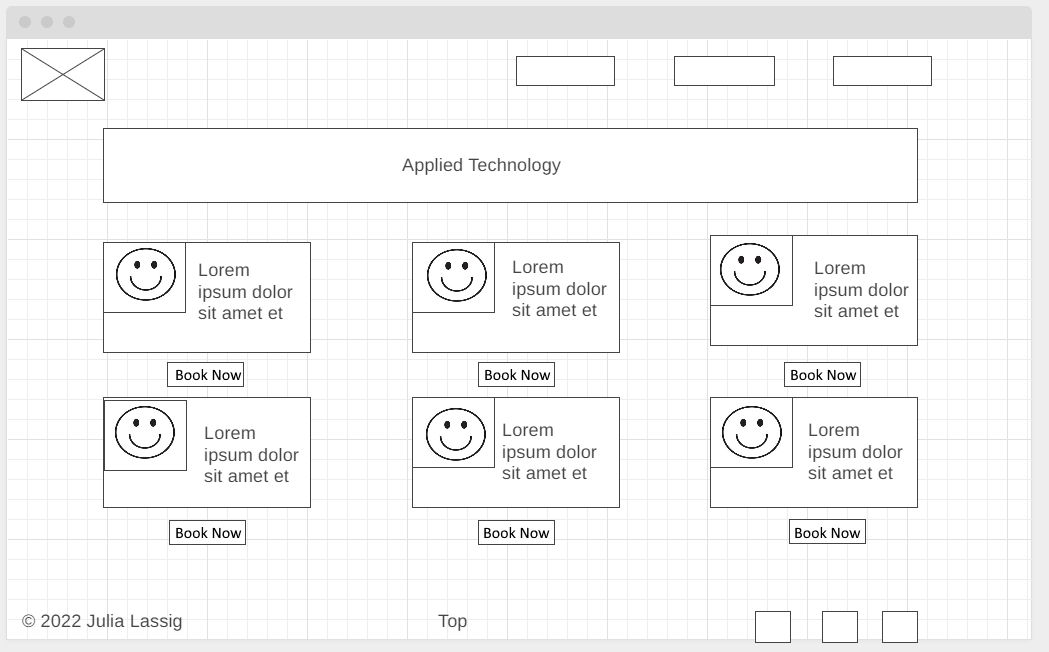
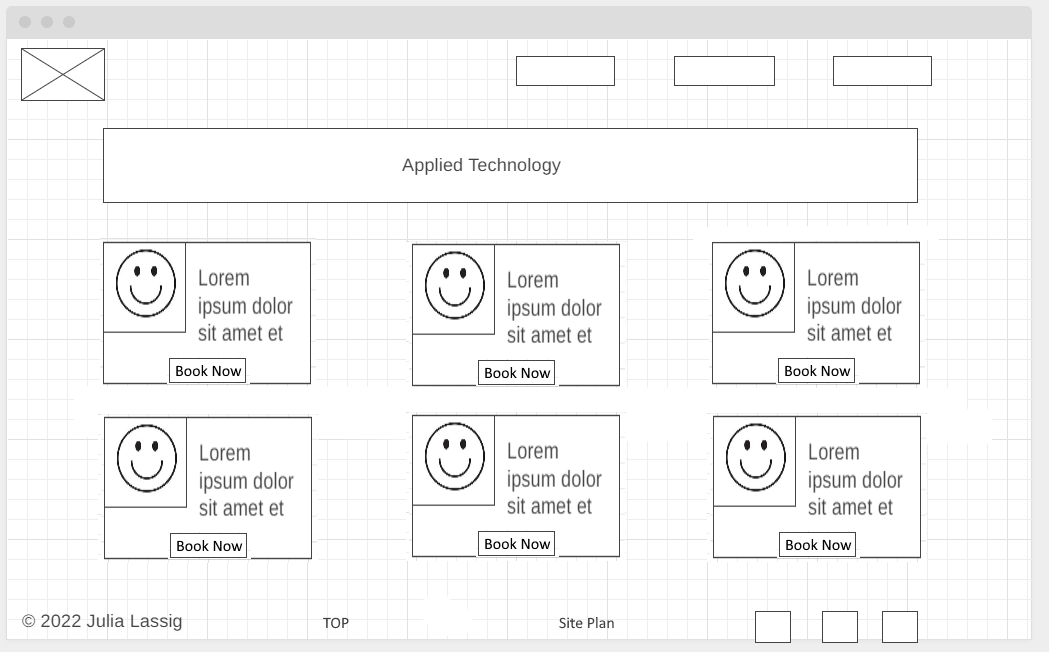
1st child page and fixed site-plan

diff --git a/uni_advisors/appliedtech.html b/uni_advisors/appliedtech.html
@@ -16,7 +16,7 @@
   <!--Nav Bar -->
   <nav>
    <a href="index.html">Home</a>
-   <a href="appliedtech.html">Applied Tech</a>
+   <a href="appliedtech.html">Applied Technology</a>
    <a href="booknow.html">Book Now</a>
    <a href="contactus.html">Contact Us</a>
   </nav>
@@ -26,83 +26,95 @@
    <h5>Technology is everywhere. We want to help you get that degree so you can get a job anywhere!</h5>
   </div>
   
-  <main>
-   <div class="applied-tech-instructions">Click "Book Now" below the advisor of your choice: </div>
+  <main class="appliedtech-grid">
+   <div class="applied-tech-instructions">Here are our advisors that specialize in Applied Technology. Click on the "Book Now" button below the advisor of your choice to book an appointment with them.  </div>
 <!--AND NOW THE ADVISORS FOR APPLIED TECH: -->
-   <div class="advisor tyler_jenson">
-    <img src="images/pexels-tony-schnagl-5588224.jpg" alt="Tyler Jensen">Photo by <a
-     href="https://www.pexels.com/photo/man-in-brown-coat-and-black-cap-5588224/">Tony Schnagl</a>
-    <p>
-     Name: Tyler Jensen
-     Specializing in: Applied Technology
-     Bio: I've worked in Quality Assurance for 15 years for Facebook.
-     Languages I speak: English, Spanish, German
-     Availability: Monday, Wednesday, Friday, 9 am - 4 pm MST
-    </p>
-    <button class="button tj_button"><a href="booknow.html">BOOK NOW</a></button>
+   <div class="advisor tyler_jensen">
+      <div class="advisor-img"><img src="images/pexels-tony-schnagl-5588224.jpg" alt="Tyler Jensen"><p class="pic-src">Photo by <a href="https://www.pexels.com/photo/man-in-brown-coat-and-black-cap-5588224/" target="blank"> Tony Schnagl</a></p></div>
+      <ul class="advisor-info">
+         <li><span class=li-span>Name:</span> Tyler Jensen</li>
+         <li><span class=li-span>Specializing in:</span> Applied Technology</li>
+         <li><span class=li-span>Bio:</span> I've worked in Quality Assurance for 15 years for Facebook.</li>
+         <li><span class=li-span>Languages I speak:</span> English, Spanish, German</li>
+         <li><span class=li-span>Availability:</span> Monday, Wednesday, Friday, 9 am - 4 pm MST</li>
+      </ul>
+      
+         <div class="booknow-button"><a href="booknow.html">BOOK NOW</a></div>
    </div>
 
    <div class="advisor susan_smith">
-    <img src="images/pexels-andrea-piacquadio-762020.jpg" alt="Susan Smith">Photo by<a href="https://www.pexels.com/photo/woman-wearing-coat-762020/">Andrea Piacquadio</a>
-    <p>
-     Name: Susan Smith
-     Specializing in: Applied Technology
-     Bio: I've been a software developer in 4 of the FAANG companies for the last 25 years and now I want to help students
-     to be able to get the tools they need to be able to work there.
-     Languages I speak: English, French, Italian
-     Availability: Tuesday-Thursday, 9am - 5pm MST
-    </p> 
-    <button class="button ss_button">BOOK NOW</button>
-    </div>
+    <div class="advisor-img"><img src="images/pexels-andrea-piacquadio-762020.jpg" alt="Susan Smith">
+    <p class="pic-src">Photo by<a href="https://www.pexels.com/photo/woman-wearing-coat-762020/" target="blank"> Andrea Piacquadio</a></p></div>
+    <ul class="advisor-info">
+      <li><span class=li-span>Name:</span> Susan Smith</li>
+      <li><span class=li-span>Specializing in:</span> Applied Technology</li>
+      <li><span class=li-span>Bio:</span> I've been a software developer in 4 of the FAANG companies for the last 25 years and now I want to help students
+      to be able to get the tools they need to be able to work there.</li>
+      <li><span class=li-span>Languages I speak:</span> English, French, Italian</li>
+      <li><span class=li-span>Availability:</span> Tuesday-Thursday, 9am - 5pm MST</li>
+    </ul>
+      <div class="booknow-button"><a href="#">BOOK NOW</a></div>
+   </div>
 
-    <div class="advisor sean_jones">
-     <img src="images/pexels-dellon-thomas-1405963.jpg" alt="Sean Jones">Photo by<a href="https://www.pexels.com/photo/man-wearing-gray-suit-1405963/">Dellon Thomas</a>
-    <p>
-     Name: Sean Jones
-     Specializing in: Applied Technology
-     Bio: I was a website developer with Amazon for 10 years before going back to my true love: education. I've been a
-     teacher for 15 years and an advisor for 5 years. My passion is helping students to achieve their dreams.
-     Languages I speak: English, Mandarin, Spanish
-     Availability: Monday-Friday, Noon - 8 pm MST
-    </p>
-    <button class="button sj_button">BOOK NOW</button>
+
+
+   <div class="advisor sean_jones">
+      <div class="advisor-img"><img src="images/pexels-dellon-thomas-1405963.jpg" alt="Sean Jones"><p class="pic-src">Photo by<a href="https://www.pexels.com/photo/man-wearing-gray-suit-1405963/" target="blank"> Dellon Thomas</a></p></div>
+      
+      <ul class="advisor-info">
+         <li><span class=li-span>Name:</span> Sean Jones</li>
+         <li><span class=li-span>Specializing in:</span> Applied Technology</li>
+         <li><span class=li-span>Bio:</span> I was a website developer with Amazon for 10 years before going back to my true love: education. I've been a
+         teacher for 15 years and an advisor for 5 years. My passion is helping students to achieve their dreams.</li>
+         <li><span class=li-span>Languages I speak:</span> English, Mandarin, Spanish</li>
+         <li><span class=li-span>Availability:</span> Monday - Friday, Noon - 8 pm MST</li>
+         
+      </ul>
+      <br>
+
+      <div class="booknow-button"><a href="#">BOOK NOW</a></div>
     </div>
 
    <div class="advisor jenny_ortega">
-    <img src="images/pexels-christina-morillo-1181519.jpg" alt="Jenny Ortega">Photo by<a href="https://www.pexels.com/photo/woman-standing-near-whiteboard-1181519/">Christina Morillo</a>
-    <p>
-     Name: Jenny Ortega
-     Specializing in: Applied Technology
-     Bio: I've been a CSE teacher for 20 years and an advisor for 10. I am passionate about languages, human and computer!
-     My favorite computer languages include C#, Python and Javascript.
-     Languages I speak: English, Spanish, Portuguese, Japanese, Hindi
-     Availability: Monday-Thursday, 4 pm - Midnight MST
-    </p>
-    <button class="button jo_button">BOOK NOW</button>
+      <div class="advisor-img"><img src="images/pexels-christina-morillo-1181519.jpg" alt="Jenny Ortega"><p class="pic-src">Photo by<a href="https://www.pexels.com/photo/woman-standing-near-whiteboard-1181519/" target="blank"> Christina Morillo</a></p></div>
+      <ul class="advisor-info">
+         <li><span class=li-span>Name:</span> Jenny Ortega</li>
+         <li><span class=li-span>Specializing in:</span> Applied Technology</li>     
+         <li><span class=li-span>Bio:</span> I've been a CSE teacher for 20 years and an advisor for 10. I am passionate about languages, human and computer!
+         My favorite computer languages include C#, Python and Javascript.</li>
+         <li><span class=li-span>Languages I speak:</span> English, Spanish, Portuguese, Japanese, Hindi</li>
+         <li><span class=li-span>Availability:</span> Monday-Thursday, 4 pm - Midnight MST</li> 
+         </ul>
+         <br>
+
+      <div class="booknow-button"><a href="#">BOOK NOW</a></div>
     </div>
 
+
    <div class="advisor bill_johnson">
-    <img src="images/pexels-linkedin-sales-navigator-2182970.jpg" alt="Bill Johnson">Photo by<a href="https://www.pexels.com/photo/man-wearing-white-dress-shirt-and-black-blazer-2182970/">LinkedIn Sales Navigator</a>
-    <p>
-     Name: Bill Johnson
-     Specializing in: Applied Technology
-     Bio: I've worked as a data analyst and database designer for 35 years for various governmental agencies.
-     Languages I speak: English, Mandarin, Farsi, Spanish
-     Availability: Thursday - Saturday, 4 pm - Midnight MST
-    </p>
-    <button class="button bj_button">BOOK NOW</button>
+      <div class="advisor-img"><img src="images/pexels-linkedin-sales-navigator-2182970.jpg" alt="Bill Johnson"><p class="pic-src">Photo by<a href="https://www.pexels.com/photo/man-wearing-white-dress-shirt-and-black-blazer-2182970/" target="blank"> LinkedIn Sales</a></p></div>
+      <ul class="advisor-info">
+         <li><span class=li-span>Name:</span> Bill Johnson</li>
+         <li><span class=li-span>Specializing in:</span> Applied Technology</li>
+         <li><span class=li-span>Bio:</span> I've worked as a data analyst and database designer for 35 years for various governmental agencies.</li>
+         <li><span class=li-span>Languages I speak:</span> English, Mandarin, Farsi, Spanish</li>
+         <li><span class=li-span>Availability:</span> Thursday - Saturday, 4 pm - Midnight MST</li>
+      </ul>
+
+      <div class="booknow-button"><a href="#">BOOK NOW</a></div>
     </div>
 
    <div class="advisor tiffany_taylor">
-    <img src="images/pexels-karolina-grabowska-4467687.jpg" alt="Tiffany Taylor">Photo by <a href="https://www.pexels.com/photo/cheerful-woman-smiling-while-sitting-at-table-with-laptop-4467687/">Karolina Grabowska</a>
-    <p>
-     Name: Tiffany Taylor
-     Specializing in: Applied Technology
-     Bio: I've been a software developer for 5 years with Apple.
-     Languages I speak: English
-     Availability: Monday - Friday, 4 pm - 8 pm MST
-    </p>
-    <button class="button tt_button">BOOK NOW</button>
+      <div class="advisor-img"><img src="images/pexels-karolina-grabowska-4467687.jpg" alt="Tiffany Taylor"><p class="pic-src">Photo by <a href="https://www.pexels.com/photo/cheerful-woman-smiling-while-sitting-at-table-with-laptop-4467687/" target="blank"> Karolina Grabowska</a></p></div>
+
+      <ul class="advisor-info">
+         <li><span class=li-span>Name:</span> Tiffany Taylor</li>
+         <li><span class=li-span>Specializing in:</span> Applied Technology</li>
+         <li><span class=li-span>Bio:</span> I've been a software developer for 5 years with Apple.</li>
+         <li><span class=li-span>Languages I speak:</span> English</li>
+         <li><span class=li-span>Availability:</span> Monday - Friday, 4 pm - 8 pm MST</li>
+         </ul>
+      <div class="booknow-button"><a href="#">BOOK NOW</a></div>
     </div>
 
 

diff --git a/uni_advisors/styles/style.css b/uni_advisors/styles/style.css
@@ -296,6 +296,121 @@ header{
  color: var(--primary-color);
 }
 
+/*APPLIED TECHNOLOGY CSS:*/
+/* *{
+  border: 2px solid blue;
+} */
+
+.appliedtech-grid{
+  display: grid;
+  grid-template-columns: 1fr 1fr 1fr;
+  column-gap: 50px;
+  row-gap: 50px;
+  margin-left: 12.5%;
+  margin-right: 12.5%
+  }
+.applied-tech-instructions {
+  grid-row: 1/2;
+  grid-column: 1/4;
+  font-size: 2em;
+  text-align: center;
+  font-family: var(--paragraph-font);
+
+}
+
+.tyler_jensen, .jenny_ortega{
+ grid-column: 1/2;
+}
+.susan_smith, .bill_johnson{
+  grid-column: 2/3;
+}
+.sean_jones, .tiffany_taylor{
+  grid-column: 3/4;
+}
+.tyler_jensen, .susan_smith, .sean_jones{
+  grid-row: 2/3;
+}
+.jenny_ortega, .bill_johnson, .tiffany_taylor{
+  grid-row: 3/4;
+}
+
+.advisor-img{
+  float: left;  /*this makes the text in the rest of the advisor class float around this image*/
+  padding: 10px 10px 0px 10px;
+  position: relative;
+
+}
+.pic-src{
+  position: absolute;
+  bottom: 1px;
+  left: 20px;
+  font-size: .8em; 
+  color: var(--accent1-color);
+  font-family: var(--paragraph-font);
+  
+}
+.pic-src a{
+  color:var(--accent1-color);
+  text-decoration: none;
+  font-family: var(--paragraph-font);
+}
+.pic-src a:hover{
+  color: var(--primary-color);
+}
+
+
+.advisor-info{
+  list-style-type: none;
+  font-family: var(--paragraph-font);
+  padding-right: 10px;
+
+}
+.li-span{
+  font-weight: bold;
+  text-decoration: underline;
+}
+.advisor{
+  border: 20px solid var(--accent1-color);
+  background-color: var(--accent2-color);
+  position: relative;
+  box-shadow: 5px 5px 10px #6f7364;
+}
+.advisor:hover{
+  border: 20px solid var(--secondary-color);
+}
+.advisor-info li{
+  padding-bottom: 6px;
+}
+
+.booknow-button{
+  width: 156px;
+  font-size: 1.5em;
+  background-color: var(--secondary-color);
+  padding: 7px;
+  border: 1px solid var(--accent1-color);
+  border-radius: 20px;
+  text-align: center;
+  margin: auto;
+  position: absolute;
+  bottom: -20px;
+  left: 50%;
+  transform: translate(-50%);
+  /*https: //www.w3schools.com/howto/howto_css_image_text.asp*/
+}
+.booknow-button a{
+  text-decoration: none;
+  color: var(--accent1-color);
+  font-family: var(--heading-font);
+}
+.booknow-button:hover{
+  border: 1px solid var(--primary-color);
+
+}
+.booknow-button a:hover{
+  color: var(--primary-color);
+  
+}
+
 
 
 /*FOOTER*/
@@ -401,6 +516,13 @@ footer a:hover {
  }
  .contact-button-box{
   font-size: .8em;
+ }
+ .applied-tech-instructions{
+  font-size: 1em;  
+ }
+ .appliedtech-grid{
+  display:block;
+  height: auto;
  }
 
  

diff --git a/uni_advisors/site-plan.html b/uni_advisors/site-plan.html
@@ -143,7 +143,7 @@
   </h2>
   <h3>Home page</h3>
   <p>
-   This first page would welcome the student to our site, have them choose a major from a list (probably an unordered list), be able to contact us if their major isn't listed, give them the company motto, have a nav bar and footer. Since I am only doing 3 pages for this project, the only "major" that the student can click on will be Applied Technology. Also, because we are only doing 3 pages, the nav bar would include home, Applied technology and Book Now. The finished nav bar (outside of class) would not include applied technology, it would have search by advisor (where you could search by the advisor's name you want). Also, all of the major links would take you to a page similar to how Applied Technology is going to look. </p>
+   This first page would welcome the student to our site, have them choose a major from a list (probably an unordered list), be able to contact us if their major isn't listed, give them the company motto, have a nav bar and footer. Since I am only doing 3 pages for this project, the only "major" that the student can click on will be Applied Technology. Also, because we are only doing 3 pages, the nav bar would include home, Applied Technology and Book Now. The finished nav bar (outside of class) would not include applied technology, it would have search by advisor (where you could search by the advisor's name you want). Also, all of the major links would take you to a page similar to how Applied Technology is going to look. </p>
   <p>
    HOME PAGE WELCOME: 
    Welcome to Uni Advisors, where we match students up with the advisor who can best help them to navigate their university. 

diff --git a/uni_advisors/booknow.html b/uni_advisors/booknow.html
@@ -16,7 +16,7 @@
   <!--Nav Bar -->
   <nav>
    <a href="index.html">Home</a>
-   <a href="appliedtech.html">Applied Tech</a>
+   <a href="appliedtech.html">Applied Technology</a>
    <a href="booknow.html">Book Now</a>
    <a href="contactus.html">Contact Us</a>
   </nav>

diff --git a/uni_advisors/contactus.html b/uni_advisors/contactus.html
@@ -16,7 +16,7 @@
   <!--Nav Bar -->
   <nav>
    <a href="index.html">Home</a>
-   <a href="appliedtech.html">Applied Tech</a>
+   <a href="appliedtech.html">Applied Technology</a>
    <a href="booknow.html">Book Now</a>
    <a href="contactus.html">Contact Us</a>
   </nav>

diff --git a/uni_advisors/index.html b/uni_advisors/index.html
@@ -17,7 +17,7 @@
   <!--Nav Bar -->
   <nav>
    <a href="index.html">Home</a>
-   <a href="appliedtech.html">Applied Tech</a>
+   <a href="appliedtech.html">Applied Technology</a>
    <a href="booknow.html">Book Now</a>
    <a href="contactus.html">Contact Us</a>
   </nav>
